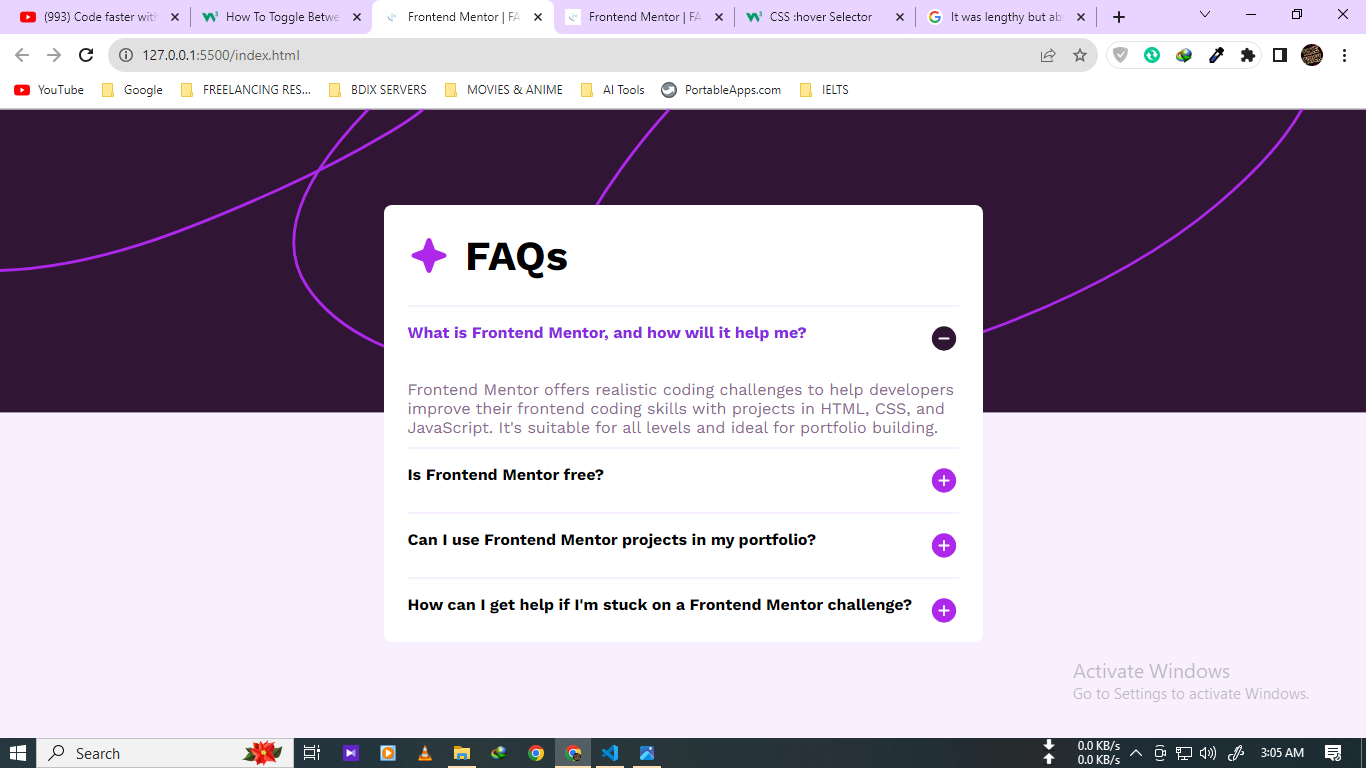
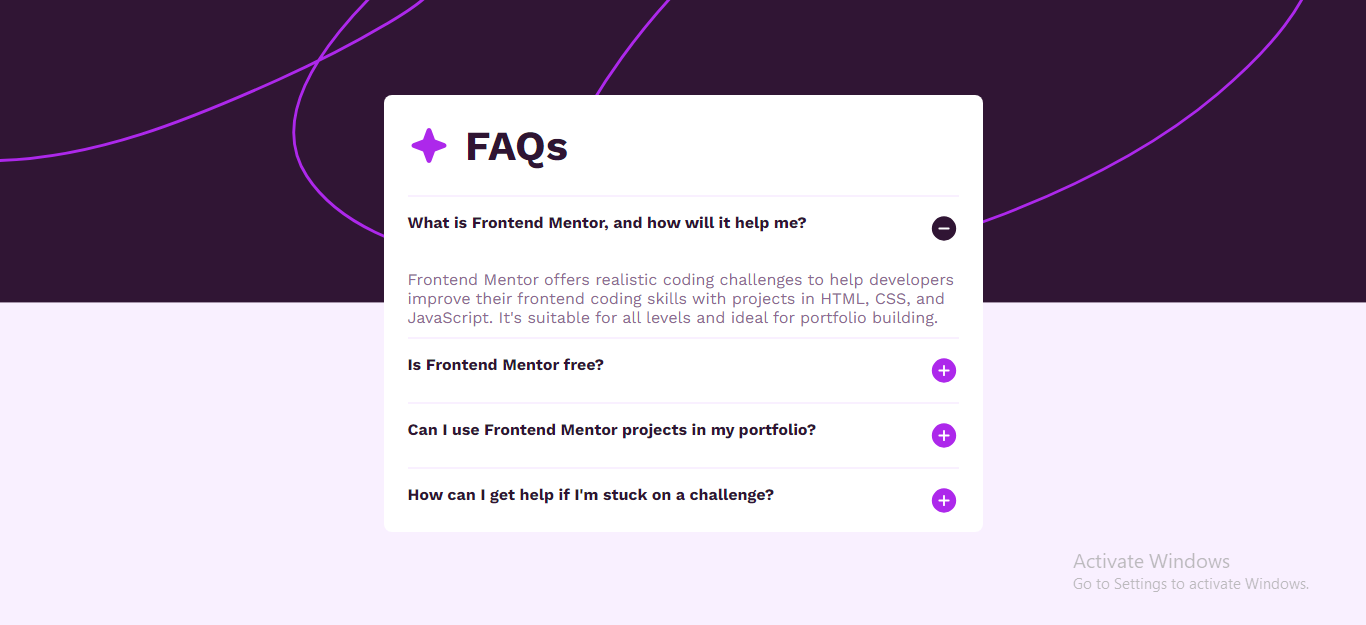
Add files via upload

diff --git a/index.html b/index.html
@@ -4,24 +4,23 @@
 <head>
   <meta charset="UTF-8">
   <meta name="viewport" content="width=device-width, initial-scale=1.0">
-  <!-- displays site properly based on user's device -->
-
   <link rel="preconnect" href="https://fonts.googleapis.com">
   <link rel="preconnect" href="https://fonts.gstatic.com" crossorigin>
   <link href="https://fonts.googleapis.com/css2?family=Work+Sans:wght@400;600;700&display=swap" rel="stylesheet">
   <link rel="stylesheet" href="style.css">
-  <!-- Font Family -->
-
+  <!-- Title -->
   <link rel="icon" type="image/png" sizes="32x32" href="./assets/images/favicon-32x32.png">
   <title>Frontend Mentor | FAQ accordion</title>
 </head>
 
 <body>
-  <div class="main">
+
+  <main>
+
     <div class="container">
 
       <div class="faq">
-        <img id="star" src="./assets/images/icon-star.svg">
+        <img id="star" src="./assets/images/icon-star.svg" alt="Star Icon">
         <h1>FAQs</h1>
       </div>
 
@@ -58,7 +57,7 @@
 
       <div class="info">
         <div class="h2-card" onclick="faqTog4()">
-          <h2>How can I get help if I'm stuck on a Frontend Mentor challenge?</h2>
+          <h2>How can I get help if I'm stuck on a challenge?</h2>
           <img src="./assets/images/icon-plus.svg" alt="Plus icon" id="plus4">
           <img src="./assets/images/icon-minus.svg" alt="icon-minus" id="minus4" class="minus">
         </div>
@@ -66,9 +65,8 @@
           channel where you can ask questions and seek support from other community members.</p>
       </div>
 
-
     </div>
-  </div>
+  </main>
 
   <script src="./script.js"></script>
 </body>

diff --git a/style.css b/style.css
@@ -23,13 +23,18 @@ body {
 
 h1 {
   font-size: 2.6rem;
+  color: var(--Dark-purple);
+}
+
+h2 {
+  color: var(--Dark-purple);
 }
 
 p {
-  color: hsl(292, 16%, 49%);
+  color: var(--Grayish-purple);
 }
 
-.main {
+main {
   background-image: url(./assets/images/background-pattern-desktop.svg);
   background-repeat: no-repeat;
   background-position: top center;
@@ -48,8 +53,7 @@ p {
 }
 
 .container {
-  width: 100%;
-  max-width: 599px;
+  width: 599px;
   background-color: white;
   border-radius: .5rem;
 }
@@ -89,18 +93,18 @@ h2:hover {
 .info p {
   display: none;
   padding: 10px 0px;
+  transition: all 0.2s;
 }
 
 
 
 /* On screens that are 600px or less */
 @media screen and (max-width: 600px) {
-  .main {
+  main {
     background-image: url(./assets/images/background-pattern-mobile.svg);
     background-repeat: no-repeat;
     background-size: contain;
     background-color: hsl(275, 100%, 97%);
-
     width: 100%;
   }
 
